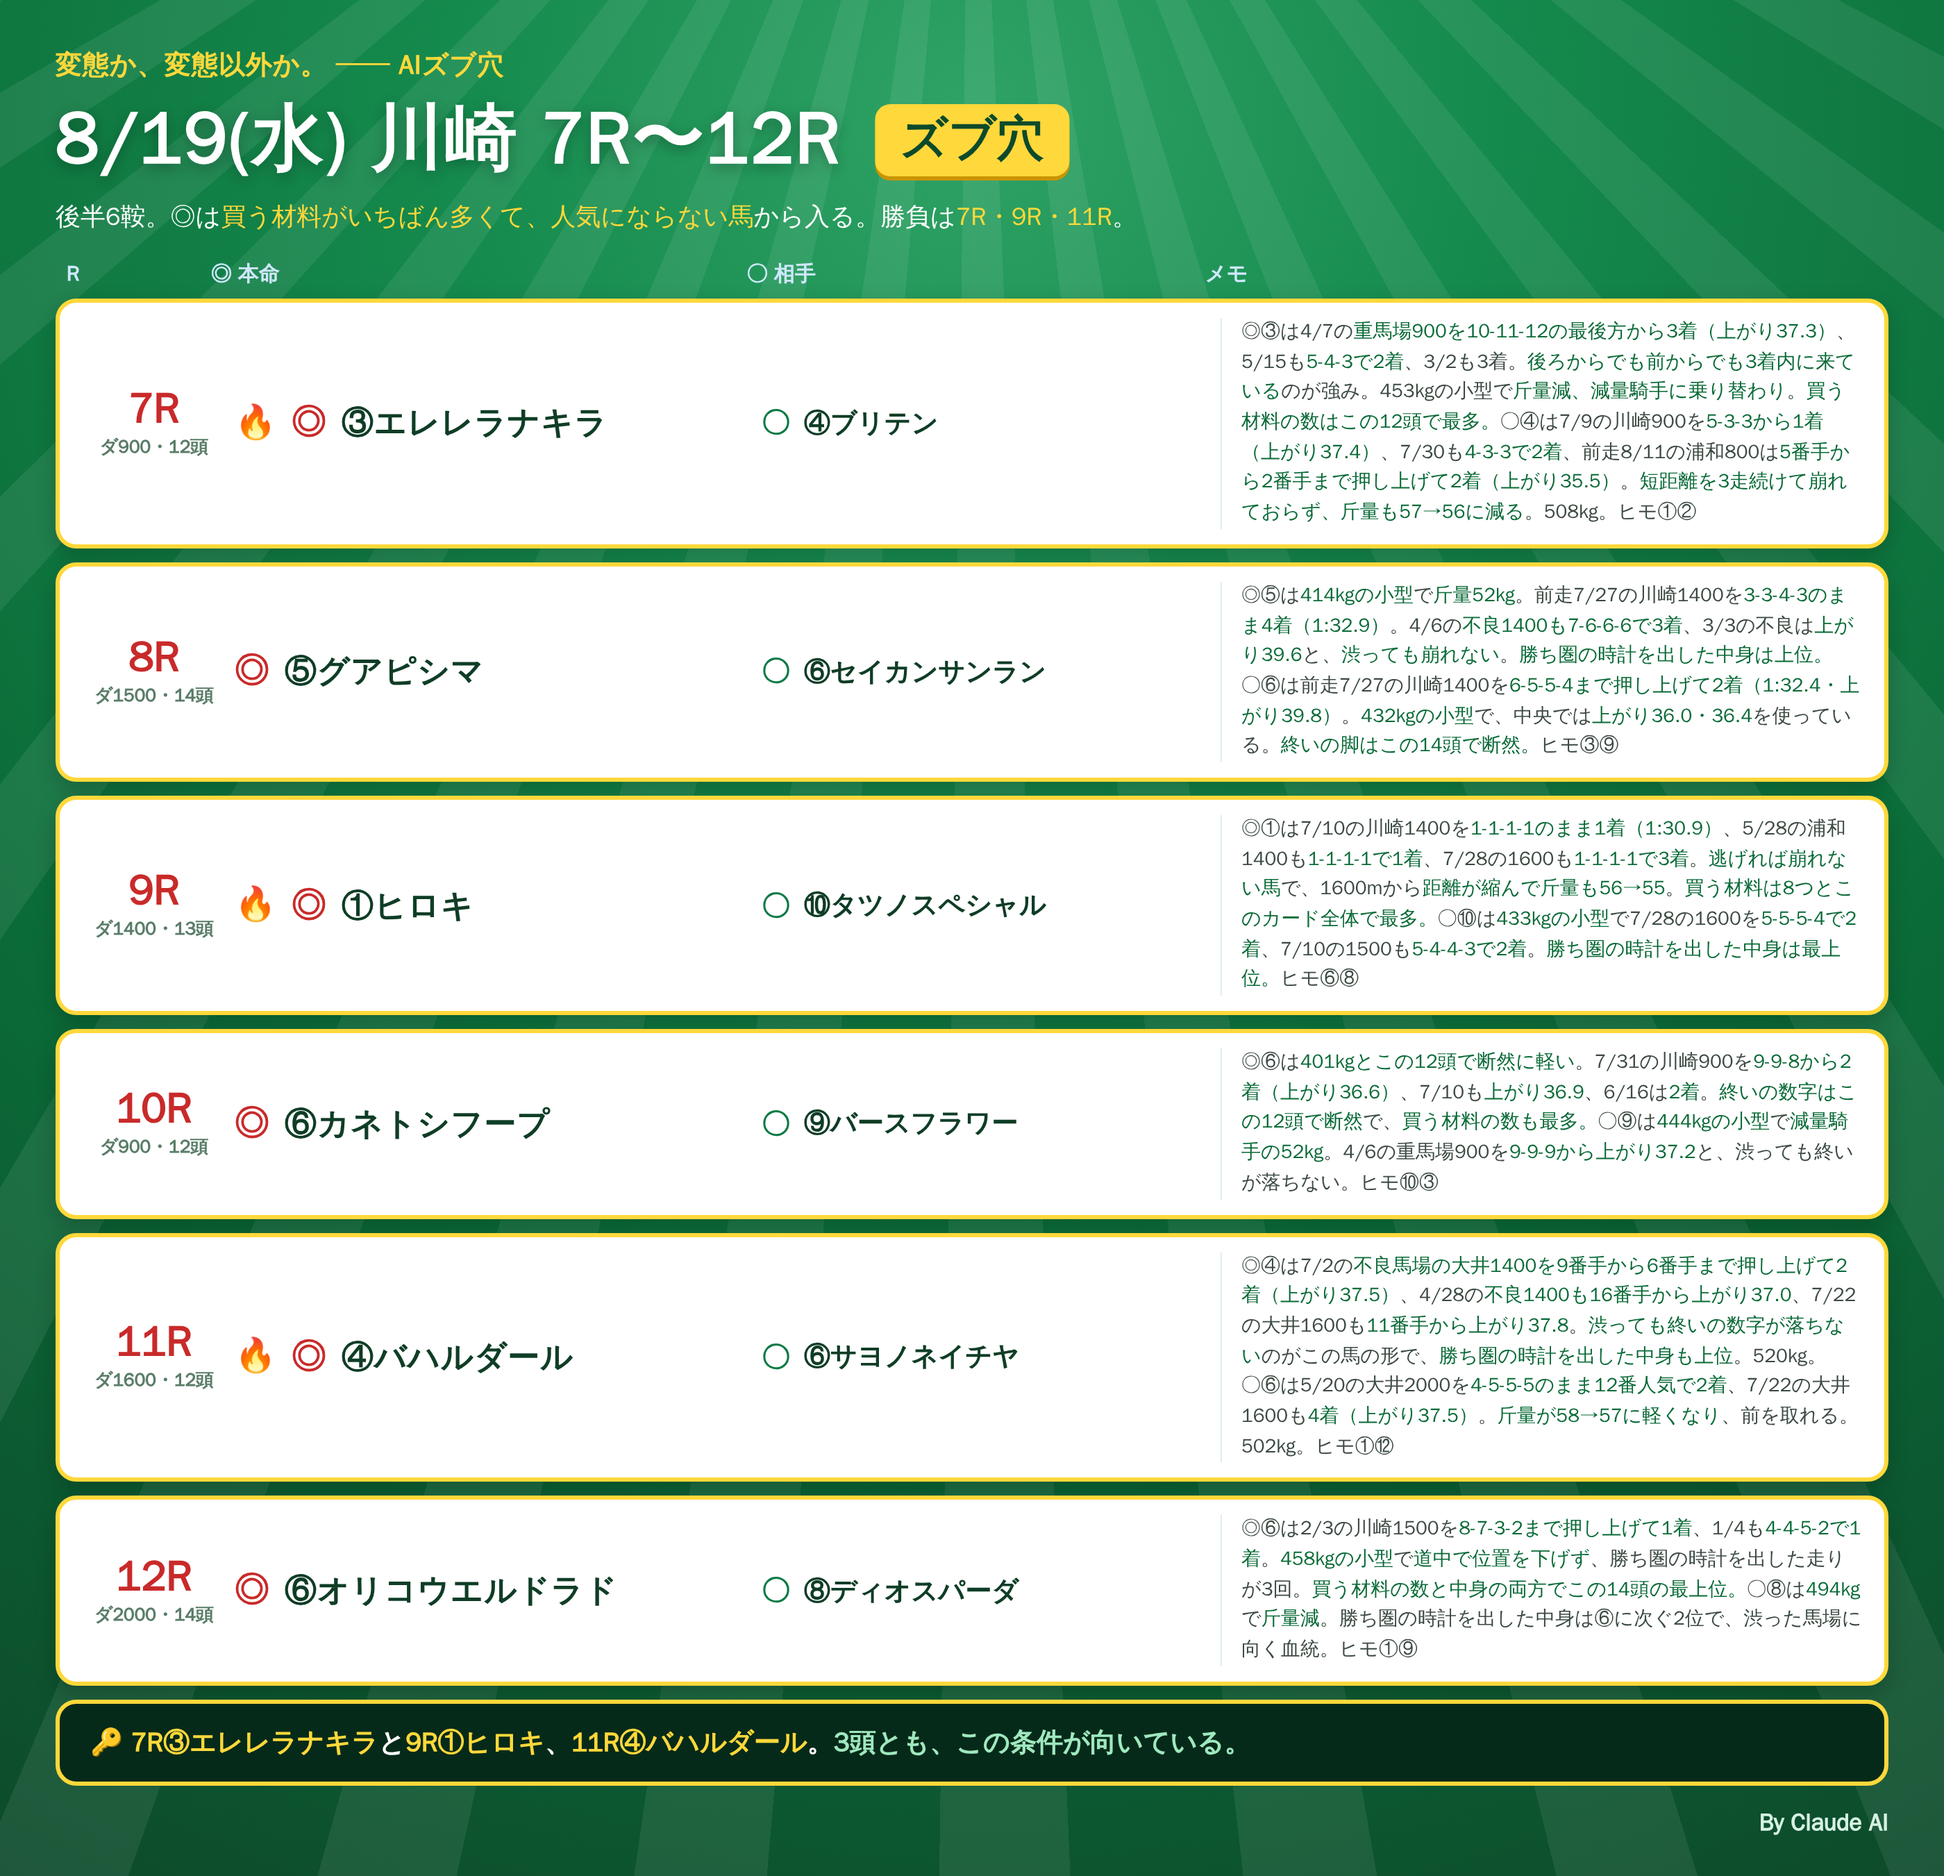
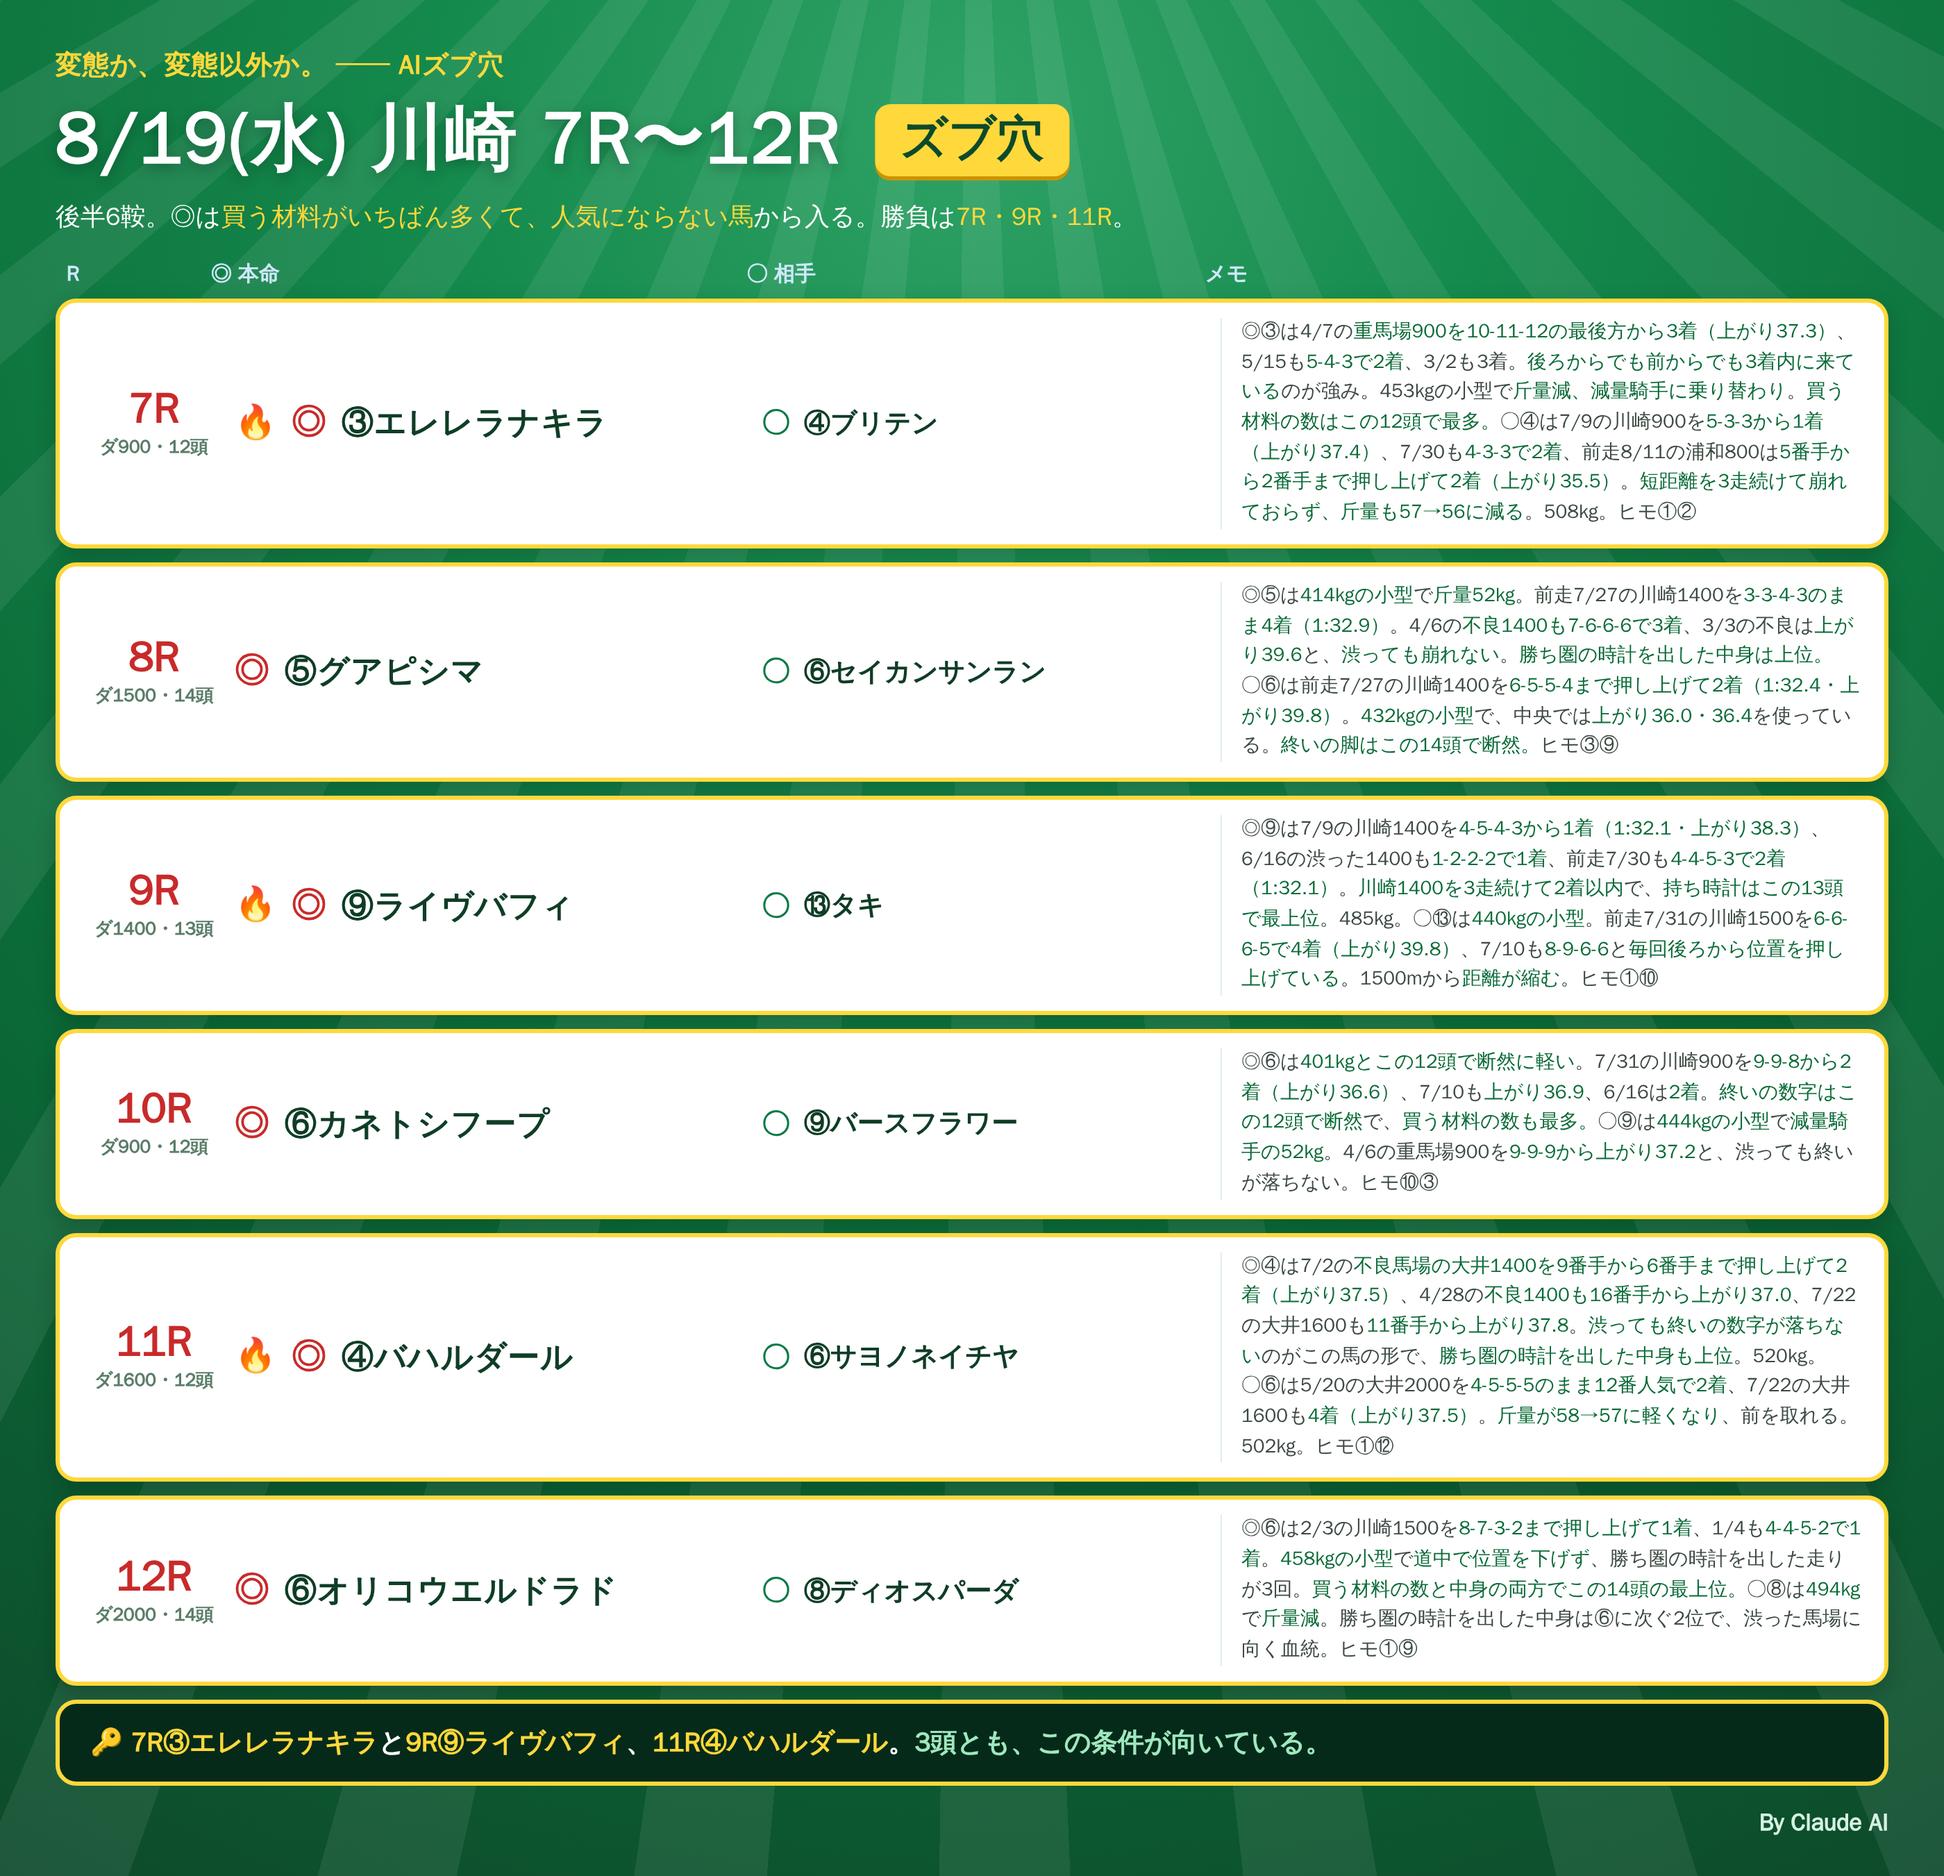
notes: 8/19 川崎 9R ◎⑨ライヴバフィ ○⑬タキ に統一／A/B検証は8/20へ持ち越し
Claude-Session: https://claude.ai/code/session_01RoHscZkr96FNaxQWvUqgEw

Changed region(s): [[0.6214, 0.4352, 0.9632, 0.5285], [0.2175, 0.9016, 0.6525, 0.9326], [0.1864, 0.4663, 0.2796, 0.4974]]

diff --git a/notes/live/2026-08-19/kawasaki_7_12.html b/notes/live/2026-08-19/kawasaki_7_12.html
@@ -67,9 +67,9 @@
 
   <div class="row">
     <div class="rN"><div class="n">9R</div><div class="d">ダ1400・13頭</div></div>
-    <div class="hm"><span class="fire">🔥</span><span class="mk">◎</span><span class="nm">⑩タツノスペシャル</span></div>
-    <div class="at"><span class="mk2">○</span><span class="nm2">⑥フォーマイディア</span></div>
-    <div class="memo"><b class='r'>ハナを主張しうる馬が6頭。</b>13頭立てで前が競るので、<b>浮くのは中団から動ける馬。</b>◎⑩は7/28の川崎1600を<b>5-5-5-4で2着</b>、7/10の1500も<b>5-4-4-3で2着</b>と、<b>2走続けて中団から2着</b>。<b>433kgの小型</b>で<b>斤量が56→55に軽くなり</b>、1600mから<b>距離が縮む</b>。<b>勝ち圏の時計を出した中身はこの13頭で最上位。</b>○⑥は<b>437kgの小型</b>で<b>減量騎手の51kg</b>。5/25の浦和1500を<b>12番手から5番手まで押し上げて1着（上がり38.4）</b>。ヒモ⑧②</div>
+    <div class="hm"><span class="fire">🔥</span><span class="mk">◎</span><span class="nm">⑨ライヴバフィ</span></div>
+    <div class="at"><span class="mk2">○</span><span class="nm2">⑬タキ</span></div>
+    <div class="memo"><b class='r'>ハナを主張しうる馬が6頭。</b>13頭立てで前が競るので、<b>浮くのは4角までに位置を上げられる馬。</b>◎⑨は7/9の川崎1400を<b>4-5-4-3から1着（1:32.1・上がり38.3）</b>、6/16の渋った1400も<b>1-2-2-2で1着</b>、前走7/30も<b>4-4-5-3で2着（1:32.1）</b>。<b>ハナを取りに行かず、4角までに3番手へ押し上げる形</b>で、前が競り合っても巻き込まれない。<b>この13頭で川崎1400の持ち時計は最上位。</b>485kg。○⑬は<b>440kgの小型</b>。前走7/31の川崎1500を<b>6-6-6-5で4着（上がり39.8）</b>、7/10も<b>8-9-6-6</b>と<b>毎回後ろから位置を押し上げている</b>。1500mから<b>距離が縮む</b>。ヒモ⑩⑥</div>
   </div>
 
   <div class="row">
@@ -93,7 +93,7 @@
     <div class="memo"><b class='r'>ハナを主張しうる馬が5頭。</b>2000mで前が5頭競れば消耗するので、<b>浮くのは中団で我慢できる馬。</b>◎⑥は2/3の川崎1500を<b>8-7-3-2まで押し上げて1着</b>、1/4も<b>4-4-5-2で1着</b>。<b>458kgの小型</b>で<b>道中で位置を下げず</b>、勝ち圏の時計を出した走りが3回。3歳でこの相手なら伸びしろもある。○⑤は1/2の川崎2000を<b>4-4-5-5のまま1着</b>、3/2も<b>4角2番手まで押し上げて2着</b>、2/6も3着。<b>この距離の中身はこの14頭で最高値。</b>ヒモ⑩⑨</div>
   </div>
 
-  <div class="foot">🔑 <span class="y">7R③エレレラナキラ</span>と<span class="y">9R⑩タツノスペシャル</span>、<span class="y">11R④バハルダール</span>。<span class="c">7Rは12頭中8頭が前を主張する、今開催で最も極端な消耗戦。</span></div>
+  <div class="foot">🔑 <span class="y">7R③エレレラナキラ</span>と<span class="y">9R⑨ライヴバフィ</span>、<span class="y">11R④バハルダール</span>。<span class="c">7Rは12頭中8頭が前を主張する、今開催で最も極端な消耗戦。</span></div>
   <div class="sig">By Claude AI</div>
 </div></div>
 </body></html>

diff --git a/notes/live/2026-08-19/kawasaki_7_12_classic.html b/notes/live/2026-08-19/kawasaki_7_12_classic.html
@@ -68,9 +68,9 @@
 
   <div class="row">
     <div class="rN"><div class="n">9R</div><div class="d">ダ1400・13頭</div></div>
-    <div class="hm"><span class="fire">🔥</span><span class="mk">◎</span><span class="nm">①ヒロキ</span></div>
-    <div class="at"><span class="mk2">○</span><span class="nm2">⑩タツノスペシャル</span></div>
-    <div class="memo">◎①は7/10の川崎1400を<b>1-1-1-1のまま1着（1:30.9）</b>、5/28の浦和1400も<b>1-1-1-1で1着</b>、7/28の1600も<b>1-1-1-1で3着</b>。<b>逃げれば崩れない馬</b>で、1600mから<b>距離が縮んで斤量も56→55</b>。<b>買う材料は8つとこのカード全体で最多。</b>○⑩は<b>433kgの小型</b>で7/28の1600を<b>5-5-5-4で2着</b>、7/10の1500も<b>5-4-4-3で2着</b>。<b>勝ち圏の時計を出した中身は最上位。</b>ヒモ⑥⑧</div>
+    <div class="hm"><span class="fire">🔥</span><span class="mk">◎</span><span class="nm">⑨ライヴバフィ</span></div>
+    <div class="at"><span class="mk2">○</span><span class="nm2">⑬タキ</span></div>
+    <div class="memo">◎⑨は7/9の川崎1400を<b>4-5-4-3から1着（1:32.1・上がり38.3）</b>、6/16の渋った1400も<b>1-2-2-2で1着</b>、前走7/30も<b>4-4-5-3で2着（1:32.1）</b>。<b>川崎1400を3走続けて2着以内</b>で、<b>持ち時計はこの13頭で最上位</b>。485kg。○⑬は<b>440kgの小型</b>。前走7/31の川崎1500を<b>6-6-6-5で4着（上がり39.8）</b>、7/10も<b>8-9-6-6</b>と<b>毎回後ろから位置を押し上げている</b>。1500mから<b>距離が縮む</b>。ヒモ①⑩</div>
   </div>
 
   <div class="row">
@@ -94,7 +94,7 @@
     <div class="memo">◎⑥は2/3の川崎1500を<b>8-7-3-2まで押し上げて1着</b>、1/4も<b>4-4-5-2で1着</b>。<b>458kgの小型</b>で<b>道中で位置を下げず</b>、勝ち圏の時計を出した走りが3回。<b>買う材料の数と中身の両方でこの14頭の最上位。</b>○⑧は<b>494kg</b>で<b>斤量減</b>。勝ち圏の時計を出した中身は⑥に次ぐ2位で、渋った馬場に向く血統。ヒモ①⑨</div>
   </div>
 
-  <div class="foot">🔑 <span class="y">7R③エレレラナキラ</span>と<span class="y">9R①ヒロキ</span>、<span class="y">11R④バハルダール</span>。<span class="c">3頭とも、この条件が向いている。</span></div>
+  <div class="foot">🔑 <span class="y">7R③エレレラナキラ</span>と<span class="y">9R⑨ライヴバフィ</span>、<span class="y">11R④バハルダール</span>。<span class="c">3頭とも、この条件が向いている。</span></div>
   <div class="sig">By Claude AI</div>
 </div></div>
 </body></html>

diff --git a/notes/live/2026-08-19/README.md b/notes/live/2026-08-19/README.md
@@ -48,12 +48,12 @@
 | 6R ダ1400 | ⑩カサミラ | ④ベラヴィットーリア | ⑤② | 7頭激戦→一列後ろ／斤52・4-5-3-2で2着 |
 | **7R ダ900** | **③エレレラナキラ** | **④ブリテン**（本人指定） | ①⑫ | **8頭が900mで競る＝最も極端**→後方／重900を最後方から3着(上37.3)・E5最多 |
 | 8R ダ1500 | **⑤グアピシマ** | **⑥セイカンサンラン**（本人指定） | ⑧⑬ | 3頭のみ→前／⑤は399=3.6本物1で前グループ最上位・414kg・斤52・前走3-3-4-3で4着 |
-| **9R ダ1400** | **⑩タツノスペシャル** | ⑥フォーマイディア | ⑧② | 6頭競る→中団／**399=6.9本物2が最高**・2走続けて中団から2着 |
+| **9R ダ1400** | **⑨ライヴバフィ**（本人指定） | **⑬タキ**（本人指定） | ⑩⑥ | 本人指定。⑨は川崎1400を3走続けて2着以内(1:32.1×2)・4角までに3番手へ押し上げる形／⑬は440kgで毎回後ろから位置を上げる |
 | 10R ダ900 | ⑥カネトシフープ | ⑨バースフラワー | ③⑩ | 4頭消耗→後方／**401kgで最軽量・上36.6/36.9で断然** |
 | **11R ダ1600** | **④バハルダール**（本人指定） | **⑥サヨノネイチヤ**（本人指定） | ①⑫ | 本人指定。④は不良1400を9→6番手で2着(上37.5)・16番手から上37.0・520kg／⑥は大井2000を12番人気2着・斤58→57 |
 | 12R ダ2000 | ⑥オリコウエルドラド | ⑤ヘニーズネフュー | ⑩⑨ | 5頭競る→中団／399=10.5本物3・追走安・458kg |
 
-**🔑 5R③・7R③・9R⑩・11R④（8Rは⑤⑥で固め）**
+**🔑 5R③・7R③・9R⑨・11R④（8Rは⑤⑥で固め）**
 
 ## 検証ルール（自分への縛り）
 1. **前日にこの印で確定。オッズが出ても動かさない。**
@@ -129,7 +129,7 @@
 | 4R | 4頭(消耗) | ③フロレシミエント(中団) | **①マイリトルロマンス**(後方) |
 | 6R | 7頭(激戦) | ②ヤマニントレモロ(ハナ) | **⑩カサミラ**(先行) |
 | 8R | 3頭(楽) | **両方式とも⑤グアピシマ**（本人指定で統一・判定対象外） | ─ |
-| 9R | 6頭(競る) | ①ヒロキ(ハナ・E8最多) | **⑩タツノスペシャル**(中団) |
+| 9R | 6頭(競る) | **両方式とも⑨ライヴバフィ**（本人指定で統一・判定対象外） | ─ |
 | 11R | 5頭(競る) | **両方式とも④バハルダール**（本人指定で統一・判定対象外） | ─ |
 
 ## 【変更記録】1R（本人指定 2026-08-18）
@@ -173,7 +173,7 @@
 | 4R | 4頭(消耗) | ③フロレシミエント(中団) | **①マイリトルロマンス**(後方) |
 | 6R | 7頭(激戦) | ②ヤマニントレモロ(ハナ) | **⑩カサミラ**(先行) |
 | 8R | 3頭(楽) | **両方式とも⑤グアピシマ**（本人指定で統一・判定対象外） | ─ |
-| 9R | 6頭(競る) | ①ヒロキ(ハナ・E8最多) | **⑩タツノスペシャル**(中団) |
+| 9R | 6頭(競る) | **両方式とも⑨ライヴバフィ**（本人指定で統一・判定対象外） | ─ |
 
 ※サンプルが5レースまで減ったため、**8/20の川崎も同じ2方式で出して合算する**。
 
@@ -196,7 +196,27 @@
 | 3R | 1頭(楽) | ②クマサンファミリー(先行) | **⑤キーセンシェイラ**(ハナ) |
 | 4R | 4頭(消耗) | ③フロレシミエント(中団) | **①マイリトルロマンス**(後方) |
 | 6R | 7頭(激戦) | ②ヤマニントレモロ(ハナ) | **⑩カサミラ**(先行) |
-| 9R | 6頭(競る) | ①ヒロキ(ハナ・E8最多) | **⑩タツノスペシャル**(中団) |
+| 9R | 6頭(競る) | **両方式とも⑨ライヴバフィ**（本人指定で統一・判定対象外） | ─ |
 
 ⚠ **4レースでは判定できない。**8/20の川崎も必ず2方式で出して合算し、
 最低でも10レース程度のサンプルを確保してから結論を出すこと。
+
+## 【変更記録】9R（本人指定 2026-08-18）
+両方式とも **◎⑨ライヴバフィ ○⑬タキ** に統一。
+ヒモ：新手順版⑩⑥／いつも通り版①⑩
+- ⑨は7/9の川崎1400を **4-5-4-3から1着（1:32.1・上がり38.3）**、6/16の渋った1400も1-2-2-2で1着、
+  前走7/30も4-4-5-3で2着（1:32.1）。**川崎1400を3走続けて2着以内**で持ち時計は13頭最上位。485kg。
+- ⑬は440kgの小型。前走7/31の川崎1500を6-6-6-5で4着（上39.8）、7/10も8-9-6-6と**毎回後ろから位置を上げる**。
+
+# ★★ A/B検証の中止（2026-08-18）
+本人の指定で **1R・2R・5R・7R・8R・9R・11R** が両方式で統一され、
+**◎が割れて残ったのは 3R・4R・6R の3レースのみ**になった。
+
+**3レースでは統計的に何も判定できないため、8/19分でのA/B判定は中止する。**
+（当たっても外れても偶然の範囲。ここで結論を出すのは、これまで何度も反省してきた
+「サンプル不足で断定する」パターンそのもの。）
+
+## 代わりにやること
+1. **8/19のカードは本人指定を反映した1本に統合して運用する**（両版はアーカイブとして残す）
+2. **新手順の検証は 8/20 の川崎で、印を触らずに前日確定してやり直す**
+3. 8/20だけで12レース確保できるので、単独でも最低限の検証になる
